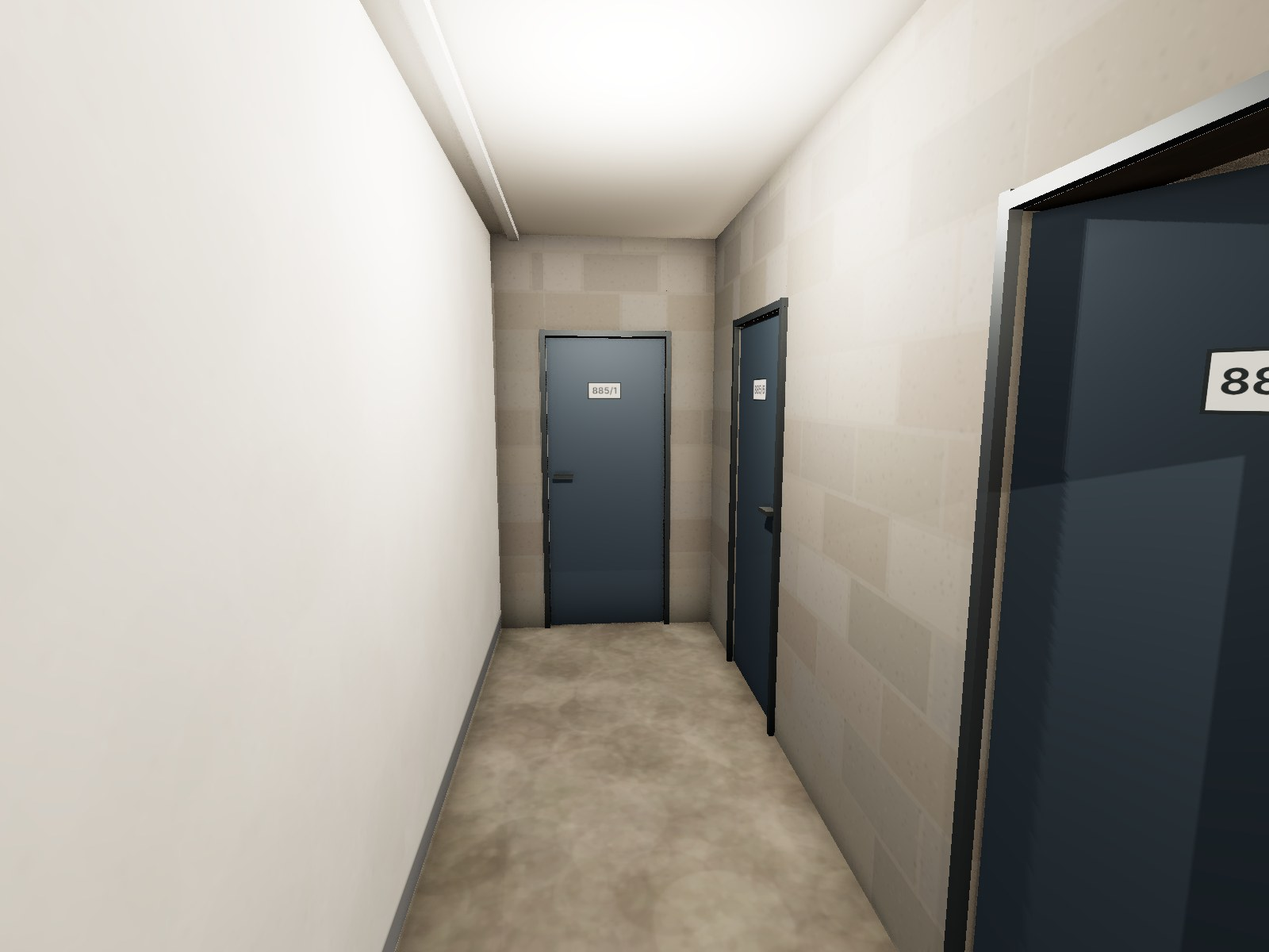
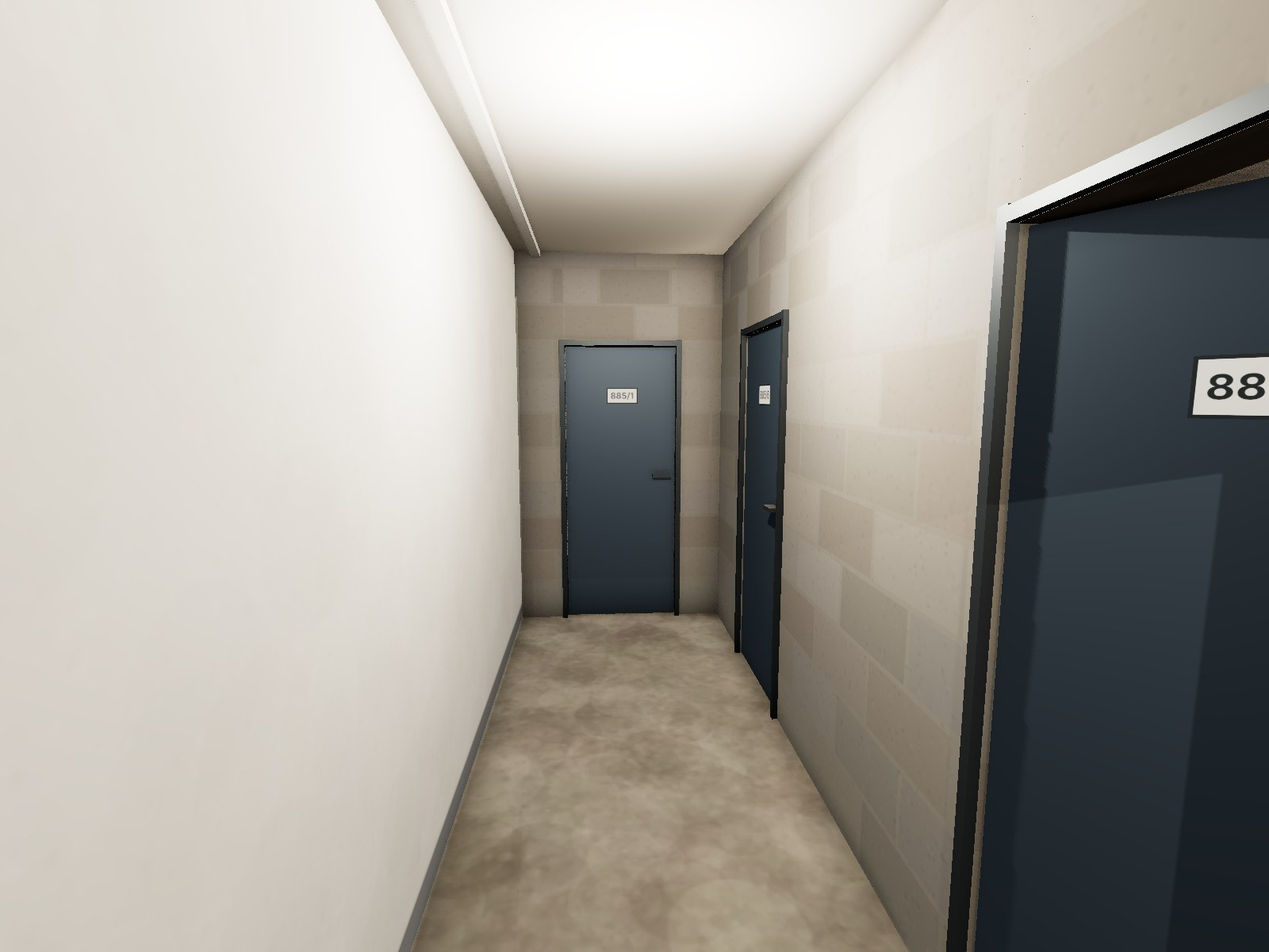
885/1 narrowed to 1,20 m with door hinge on the south side; 885/6 and 885/8 widened to 2,25 m (all A1 kóje ~4,15 m²)
Claude-Session: https://claude.ai/code/session_01PwTnPep7yYfhi5YvdxRW3v

diff --git a/sklepyjachymov.html b/sklepyjachymov.html
@@ -537,15 +537,15 @@
                     <!-- Návrh cílového stavu 2 podle přesného zaměření; rozměry kójí světlé, příčky 15 cm -->
                     <rect x="90" y="80" width="240" height="137.96" fill="#f5f5f5" stroke="none"></rect>
                     <rect x="342" y="80" width="140" height="152" fill="#f5f5f5" stroke="none"></rect>
-                    <rect x="90" y="80" width="60" height="137.96" class="proposed-unit" onclick="selectItem('proposal2', 'Kóje 885/1', 'Sklepní kóje – cílový stav', '1,50 x 3,45 m (5,17 m²)', 'Vnitřní rozměr, příčky 15 cm, dveře 0,80 m')"></rect>
-                    <text x="120" y="142.98" class="label-title" fill="#0d47a1" style="font-size:11px;">885/1</text>
-                    <text x="120" y="156.18" class="label-title" fill="#0d47a1" style="font-size:9px; font-weight:normal;">1,50 × 3,45</text>
-                    <rect x="156" y="80" width="84" height="74" class="proposed-unit" onclick="selectItem('proposal2', 'Kóje 885/6', 'Sklepní kóje – cílový stav', '2,10 x 1,85 m (3,89 m²)', 'Vnitřní rozměr, příčky 15 cm, dveře 0,80 m')"></rect>
-                    <text x="198" y="96.8" class="label-title" fill="#0d47a1" style="font-size:11px;">885/6</text>
-                    <text x="198" y="110" class="label-title" fill="#0d47a1" style="font-size:9px; font-weight:normal;">2,10 × 1,85</text>
-                    <rect x="246" y="80" width="84" height="74" class="proposed-unit" onclick="selectItem('proposal2', 'Kóje 885/8', 'Sklepní kóje – cílový stav', '2,10 x 1,85 m (3,89 m²)', 'Vnitřní rozměr, příčky 15 cm, dveře 0,80 m')"></rect>
-                    <text x="288" y="96.8" class="label-title" fill="#0d47a1" style="font-size:11px;">885/8</text>
-                    <text x="288" y="110" class="label-title" fill="#0d47a1" style="font-size:9px; font-weight:normal;">2,10 × 1,85</text>
+                    <rect x="90" y="80" width="48" height="137.96" class="proposed-unit" onclick="selectItem('proposal2', 'Kóje 885/1', 'Sklepní kóje – cílový stav', '1,20 x 3,45 m (4,14 m²)', 'Vnitřní rozměr, příčky 15 cm, dveře 0,80 m')"></rect>
+                    <text x="114" y="142.98" class="label-title" fill="#0d47a1" style="font-size:11px;">885/1</text>
+                    <text x="114" y="156.18" class="label-title" fill="#0d47a1" style="font-size:9px; font-weight:normal;">1,20 × 3,45</text>
+                    <rect x="144" y="80" width="90" height="74" class="proposed-unit" onclick="selectItem('proposal2', 'Kóje 885/6', 'Sklepní kóje – cílový stav', '2,25 x 1,85 m (4,16 m²)', 'Vnitřní rozměr, příčky 15 cm, dveře 0,80 m')"></rect>
+                    <text x="189" y="96.8" class="label-title" fill="#0d47a1" style="font-size:11px;">885/6</text>
+                    <text x="189" y="110" class="label-title" fill="#0d47a1" style="font-size:9px; font-weight:normal;">2,25 × 1,85</text>
+                    <rect x="240" y="80" width="90" height="74" class="proposed-unit" onclick="selectItem('proposal2', 'Kóje 885/8', 'Sklepní kóje – cílový stav', '2,25 x 1,85 m (4,16 m²)', 'Vnitřní rozměr, příčky 15 cm, dveře 0,80 m')"></rect>
+                    <text x="285" y="96.8" class="label-title" fill="#0d47a1" style="font-size:11px;">885/8</text>
+                    <text x="285" y="110" class="label-title" fill="#0d47a1" style="font-size:9px; font-weight:normal;">2,25 × 1,85</text>
                     <rect x="342" y="80" width="88" height="74" class="proposed-unit" onclick="selectItem('proposal2', 'Kóje 885/9', 'Sklepní kóje – cílový stav', '2,20 x 1,85 m (4,07 m²)', 'Vnitřní rozměr, příčky 15 cm, dveře 0,80 m')"></rect>
                     <text x="386" y="96.8" class="label-title" fill="#0d47a1" style="font-size:11px;">885/9</text>
                     <text x="386" y="110" class="label-title" fill="#0d47a1" style="font-size:9px; font-weight:normal;">2,20 × 1,85</text>
@@ -573,14 +573,14 @@
                     <rect x="773.8" y="80" width="60" height="78" class="proposed-unit" onclick="selectItem('proposal2', 'A6', 'Společný prostor', '1,50 x 1,95 m (2,92 m²)', 'Vnitřní rozměr, příčky 15 cm, dveře 0,80 m')"></rect>
                     <text x="803.8" y="96.8" class="label-title" fill="#0d47a1" style="font-size:11px;">A6</text>
                     <text x="803.8" y="110" class="label-title" fill="#0d47a1" style="font-size:9px; font-weight:normal;">1,50 × 1,95</text>
-                    <rect x="156" y="160" width="174" height="57.96" fill="#f5f5f5" stroke="#9e9e9e" stroke-width="1" style="cursor: pointer;" onclick="selectItem('proposal2', 'Přístup A1', 'Přístupová plocha', '4,35 x 1,45 m (6,30 m²)', 'Přístup ke kójím 885/1, 885/6 a 885/8 průchodem z A2')"></rect>
+                    <rect x="144" y="160" width="186" height="57.96" fill="#f5f5f5" stroke="#9e9e9e" stroke-width="1" style="cursor: pointer;" onclick="selectItem('proposal2', 'Přístup A1', 'Přístupová plocha', '4,65 x 1,45 m (6,74 m²)', 'Přístup ke kójím 885/1, 885/6 a 885/8 průchodem z A2')"></rect>
                     <rect x="342" y="160" width="88" height="72" fill="#f5f5f5" stroke="#9e9e9e" stroke-width="1" style="cursor: pointer;" onclick="selectItem('proposal2', 'Přístup A2', 'Přístupová plocha', '2,20 x 1,80 m (3,96 m²)', 'Otevřeno do chodby C1 v celé šířce 885/9 (2,20 m); přístup k 885/9 a 885/2, průchodem doleva do A1')"></rect>
                     <rect x="430" y="325.2" width="71.8" height="216.96" fill="#f5f5f5" stroke="#9e9e9e" stroke-width="1" style="cursor: pointer;" onclick="selectItem('proposal2', 'Přístup B2', 'Volná část B2', '1,79 x 5,42 m (9,74 m²)', 'Přístup ke kójím 885/5, 885/X a 885/4')"></rect>
                     <rect x="773.8" y="164" width="60" height="68" fill="#f5f5f5" stroke="#9e9e9e" stroke-width="1" style="cursor: pointer;" onclick="selectItem('proposal2', 'Boční chodba', 'Boční chodba', '1,50 x 1,70 m (2,55 m²)', 'Přístup ke kójím A6 a 885/7')"></rect>
                     <!-- Nové příčky 15 cm -->
-                    <rect x="150" y="80" width="6" height="137.96" fill="#546e7a" pointer-events="none"></rect>
-                    <rect x="240" y="80" width="6" height="74" fill="#546e7a" pointer-events="none"></rect>
-                    <rect x="156" y="154" width="174" height="6" fill="#546e7a" pointer-events="none"></rect>
+                    <rect x="138" y="80" width="6" height="137.96" fill="#546e7a" pointer-events="none"></rect>
+                    <rect x="234" y="80" width="6" height="74" fill="#546e7a" pointer-events="none"></rect>
+                    <rect x="144" y="154" width="186" height="6" fill="#546e7a" pointer-events="none"></rect>
                     <rect x="342" y="154" width="88" height="6" fill="#546e7a" pointer-events="none"></rect>
                     <rect x="430" y="80" width="6" height="152" fill="#546e7a" pointer-events="none"></rect>
                     <rect x="436" y="226" width="46" height="6" fill="#546e7a" pointer-events="none"></rect>
@@ -589,20 +589,20 @@
                     <rect x="424" y="325.2" width="6" height="216.96" fill="#546e7a" pointer-events="none"></rect>
                     <rect x="773.8" y="158" width="60" height="6" fill="#546e7a" pointer-events="none"></rect>
                     <!-- Dveře 0,80 m, otevírání dovnitř -->
-                    <g class="door-proposal" onclick="selectItem('proposal2', 'Dveře 885/1', 'Vstupní dveře 885/1', 'Šířka 0,80 m, otevírání dovnitř', 'v příčce do přístupové plochy A1')">
-                        <rect x="150" y="172.8" width="6" height="32" class="door-gap"></rect>
-                        <path d="M 150 172.8 L 118 172.8 A 32 32 0 0 0 150 204.8 Z" class="door-swing"></path>
-                        <line x1="150" y1="172.8" x2="118" y2="172.8" class="door-leaf"></line>
+                    <g class="door-proposal" onclick="selectItem('proposal2', 'Dveře 885/1', 'Vstupní dveře 885/1', 'Šířka 0,80 m, otevírání dovnitř', 'v příčce do přístupové plochy A1, závěs na jižní straně')">
+                        <rect x="138" y="172.8" width="6" height="32" class="door-gap"></rect>
+                        <path d="M 138 204.8 L 106 204.8 A 32 32 0 0 1 138 172.8 Z" class="door-swing"></path>
+                        <line x1="138" y1="204.8" x2="106" y2="204.8" class="door-leaf"></line>
                     </g>
                     <g class="door-proposal" onclick="selectItem('proposal2', 'Dveře 885/6', 'Vstupní dveře 885/6', 'Šířka 0,80 m, otevírání dovnitř', 'v čelní příčce, z přístupové plochy A1')">
-                        <rect x="182" y="154" width="32" height="6" class="door-gap"></rect>
-                        <path d="M 182 154 L 182 122 A 32 32 0 0 1 214 154 Z" class="door-swing"></path>
-                        <line x1="182" y1="154" x2="182" y2="122" class="door-leaf"></line>
+                        <rect x="173" y="154" width="32" height="6" class="door-gap"></rect>
+                        <path d="M 173 154 L 173 122 A 32 32 0 0 1 205 154 Z" class="door-swing"></path>
+                        <line x1="173" y1="154" x2="173" y2="122" class="door-leaf"></line>
                     </g>
                     <g class="door-proposal" onclick="selectItem('proposal2', 'Dveře 885/8', 'Vstupní dveře 885/8', 'Šířka 0,80 m, otevírání dovnitř', 'v čelní příčce, z přístupové plochy A1')">
-                        <rect x="272" y="154" width="32" height="6" class="door-gap"></rect>
-                        <path d="M 272 154 L 272 122 A 32 32 0 0 1 304 154 Z" class="door-swing"></path>
-                        <line x1="272" y1="154" x2="272" y2="122" class="door-leaf"></line>
+                        <rect x="269" y="154" width="32" height="6" class="door-gap"></rect>
+                        <path d="M 269 154 L 269 122 A 32 32 0 0 1 301 154 Z" class="door-swing"></path>
+                        <line x1="269" y1="154" x2="269" y2="122" class="door-leaf"></line>
                     </g>
                     <g class="door-proposal" onclick="selectItem('proposal2', 'Dveře 885/9', 'Vstupní dveře 885/9', 'Šířka 0,80 m, otevírání dovnitř', 'v čelní příčce, z přístupové plochy A2')">
                         <rect x="370" y="154" width="32" height="6" class="door-gap"></rect>
@@ -841,13 +841,13 @@
                         <line x1="506.8" y1="220.8" x2="550.2" y2="220.8" class="v2-tread"></line>
                         <rect x="90" y="232" width="669.4" height="62" class="v2-corridor" onclick="selectItem('vis2', 'C1', 'Společná chodba', '16,71 x 1,55 m', 'Páteřní chodba sklepů')"></rect>
                         <rect x="759.4" y="232" width="74.4" height="62" class="v2-corridor" onclick="selectItem('vis2', 'Uzel chodby', 'Společná chodba', '1,86 x 1,55 m', 'Propojení s boční chodbou')"></rect>
-                        <rect x="156" y="160" width="174" height="57.96" class="v2-corridor" onclick="selectItem('vis2', 'Přístup A1', 'Přístupová plocha', '4,35 x 1,45 m (6,30 m²)', 'Přístup ke kójím 885/1, 885/6 a 885/8 průchodem z A2')"></rect>
+                        <rect x="144" y="160" width="186" height="57.96" class="v2-corridor" onclick="selectItem('vis2', 'Přístup A1', 'Přístupová plocha', '4,65 x 1,45 m (6,74 m²)', 'Přístup ke kójím 885/1, 885/6 a 885/8 průchodem z A2')"></rect>
                         <rect x="342" y="160" width="88" height="72" class="v2-corridor" onclick="selectItem('vis2', 'Přístup A2', 'Přístupová plocha', '2,20 x 1,80 m (3,96 m²)', 'Otevřeno do chodby C1 v celé šířce 885/9 (2,20 m); přístup k 885/9 a 885/2, průchodem doleva do A1')"></rect>
                         <rect x="430" y="325.2" width="71.8" height="216.96" class="v2-corridor" onclick="selectItem('vis2', 'Přístup B2', 'Volná část B2', '1,79 x 5,42 m (9,74 m²)', 'Přístup ke kójím 885/5, 885/X a 885/4')"></rect>
                         <rect x="773.8" y="164" width="60" height="68" class="v2-corridor" onclick="selectItem('vis2', 'Boční chodba', 'Boční chodba', '1,50 x 1,70 m (2,55 m²)', 'Přístup ke kójím A6 a 885/7')"></rect>
-                        <rect x="90" y="80" width="60" height="137.96" class="v2-unit" onclick="selectItem('vis2', 'Kóje 885/1', 'Sklepní kóje – cílový stav', '1,50 x 3,45 m (5,17 m²)', 'Vnitřní rozměr, příčky 15 cm, dveře 0,80 m')"></rect>
-                        <rect x="156" y="80" width="84" height="74" class="v2-unit" onclick="selectItem('vis2', 'Kóje 885/6', 'Sklepní kóje – cílový stav', '2,10 x 1,85 m (3,89 m²)', 'Vnitřní rozměr, příčky 15 cm, dveře 0,80 m')"></rect>
-                        <rect x="246" y="80" width="84" height="74" class="v2-unit" onclick="selectItem('vis2', 'Kóje 885/8', 'Sklepní kóje – cílový stav', '2,10 x 1,85 m (3,89 m²)', 'Vnitřní rozměr, příčky 15 cm, dveře 0,80 m')"></rect>
+                        <rect x="90" y="80" width="48" height="137.96" class="v2-unit" onclick="selectItem('vis2', 'Kóje 885/1', 'Sklepní kóje – cílový stav', '1,20 x 3,45 m (4,14 m²)', 'Vnitřní rozměr, příčky 15 cm, dveře 0,80 m')"></rect>
+                        <rect x="144" y="80" width="90" height="74" class="v2-unit" onclick="selectItem('vis2', 'Kóje 885/6', 'Sklepní kóje – cílový stav', '2,25 x 1,85 m (4,16 m²)', 'Vnitřní rozměr, příčky 15 cm, dveře 0,80 m')"></rect>
+                        <rect x="240" y="80" width="90" height="74" class="v2-unit" onclick="selectItem('vis2', 'Kóje 885/8', 'Sklepní kóje – cílový stav', '2,25 x 1,85 m (4,16 m²)', 'Vnitřní rozměr, příčky 15 cm, dveře 0,80 m')"></rect>
                         <rect x="342" y="80" width="88" height="74" class="v2-unit" onclick="selectItem('vis2', 'Kóje 885/9', 'Sklepní kóje – cílový stav', '2,20 x 1,85 m (4,07 m²)', 'Vnitřní rozměr, příčky 15 cm, dveře 0,80 m')"></rect>
                         <rect x="436" y="80" width="46" height="146" class="v2-unit" onclick="selectItem('vis2', 'Kóje 885/2', 'Sklepní kóje – cílový stav', '1,15 x 3,65 m (4,20 m²)', 'Vnitřní rozměr, příčky 15 cm, dveře 0,80 m')"></rect>
                         <rect x="655.4" y="80" width="104" height="152" class="v2-unit" onclick="selectItem('vis2', 'Kóje 885/10', 'Sklepní kóje – cílový stav', '2,60 x 3,80 m (9,88 m²)', 'Vnitřní rozměr, příčky 15 cm, dveře 0,80 m')"></rect>
@@ -870,9 +870,9 @@
                         <rect x="437.8" y="490.16" width="32" height="32" class="v2-hatch" onclick="selectItem('vis2', 'Poklop', 'Poklop k přívodu vody', '0,80 x 0,80 m', '0,50 m od venkovní zdi a 0,80 m od zdi k výsepu')"></rect>
                         <rect x="497" y="494.16" width="4.8" height="8" class="v2-hatch" onclick="selectItem('vis2', 'Kryt vody', 'Kryt přívodu vody', '0,20 x 0,12 m', 'Na stěně k výsepu, 1,00 m od rohu u venkovní zdi')"></rect>
                         <g filter="url(#v2-shadow)" pointer-events="none">
-                            <rect x="150" y="80" width="6" height="137.96" class="v2-partition"></rect>
-                            <rect x="240" y="80" width="6" height="74" class="v2-partition"></rect>
-                            <rect x="156" y="154" width="174" height="6" class="v2-partition"></rect>
+                            <rect x="138" y="80" width="6" height="137.96" class="v2-partition"></rect>
+                            <rect x="234" y="80" width="6" height="74" class="v2-partition"></rect>
+                            <rect x="144" y="154" width="186" height="6" class="v2-partition"></rect>
                             <rect x="342" y="154" width="88" height="6" class="v2-partition"></rect>
                             <rect x="430" y="80" width="6" height="152" class="v2-partition"></rect>
                             <rect x="436" y="226" width="46" height="6" class="v2-partition"></rect>
@@ -881,20 +881,20 @@
                             <rect x="424" y="325.2" width="6" height="216.96" class="v2-partition"></rect>
                             <rect x="773.8" y="158" width="60" height="6" class="v2-partition"></rect>
                         </g>
-                        <g class="v2-door" onclick="selectItem('vis2', 'Dveře 885/1', 'Vstupní dveře 885/1', '0,80 m, otevírání dovnitř', 'v příčce do přístupové plochy A1')">
-                            <rect x="150" y="172.8" width="6" height="32" class="v2-door-gap"></rect>
-                            <path d="M 150 172.8 L 118 172.8 A 32 32 0 0 0 150 204.8 Z" class="v2-door-swing"></path>
-                            <line x1="150" y1="172.8" x2="118" y2="172.8" class="v2-door-leaf"></line>
+                        <g class="v2-door" onclick="selectItem('vis2', 'Dveře 885/1', 'Vstupní dveře 885/1', '0,80 m, otevírání dovnitř', 'v příčce do přístupové plochy A1, závěs na jižní straně')">
+                            <rect x="138" y="172.8" width="6" height="32" class="v2-door-gap"></rect>
+                            <path d="M 138 204.8 L 106 204.8 A 32 32 0 0 1 138 172.8 Z" class="v2-door-swing"></path>
+                            <line x1="138" y1="204.8" x2="106" y2="204.8" class="v2-door-leaf"></line>
                         </g>
                         <g class="v2-door" onclick="selectItem('vis2', 'Dveře 885/6', 'Vstupní dveře 885/6', '0,80 m, otevírání dovnitř', 'v čelní příčce, z přístupové plochy A1')">
-                            <rect x="182" y="154" width="32" height="6" class="v2-door-gap"></rect>
-                            <path d="M 182 154 L 182 122 A 32 32 0 0 1 214 154 Z" class="v2-door-swing"></path>
-                            <line x1="182" y1="154" x2="182" y2="122" class="v2-door-leaf"></line>
+                            <rect x="173" y="154" width="32" height="6" class="v2-door-gap"></rect>
+                            <path d="M 173 154 L 173 122 A 32 32 0 0 1 205 154 Z" class="v2-door-swing"></path>
+                            <line x1="173" y1="154" x2="173" y2="122" class="v2-door-leaf"></line>
                         </g>
                         <g class="v2-door" onclick="selectItem('vis2', 'Dveře 885/8', 'Vstupní dveře 885/8', '0,80 m, otevírání dovnitř', 'v čelní příčce, z přístupové plochy A1')">
-                            <rect x="272" y="154" width="32" height="6" class="v2-door-gap"></rect>
-                            <path d="M 272 154 L 272 122 A 32 32 0 0 1 304 154 Z" class="v2-door-swing"></path>
-                            <line x1="272" y1="154" x2="272" y2="122" class="v2-door-leaf"></line>
+                            <rect x="269" y="154" width="32" height="6" class="v2-door-gap"></rect>
+                            <path d="M 269 154 L 269 122 A 32 32 0 0 1 301 154 Z" class="v2-door-swing"></path>
+                            <line x1="269" y1="154" x2="269" y2="122" class="v2-door-leaf"></line>
                         </g>
                         <g class="v2-door" onclick="selectItem('vis2', 'Dveře 885/9', 'Vstupní dveře 885/9', '0,80 m, otevírání dovnitř', 'v čelní příčce, z přístupové plochy A2')">
                             <rect x="370" y="154" width="32" height="6" class="v2-door-gap"></rect>
@@ -941,15 +941,15 @@
                             <path d="M 848.2 166 L 882.2 166 A 34 34 0 0 1 848.2 200 Z" class="v2-door-swing"></path>
                             <line x1="848.2" y1="166" x2="882.2" y2="166" class="v2-door-leaf"></line>
                         </g>
-                        <text x="120" y="132" class="v2-num v2-num-s">885/1</text>
-                        <text x="120" y="144.8" class="v2-dim">1,50 × 3,45</text>
-                        <text x="120" y="156" class="v2-area">5,17 m²</text>
-                        <text x="198" y="96.8" class="v2-num">885/6</text>
-                        <text x="198" y="109.6" class="v2-dim">2,10 × 1,85</text>
-                        <text x="198" y="120.8" class="v2-area">3,89 m²</text>
-                        <text x="288" y="96.8" class="v2-num">885/8</text>
-                        <text x="288" y="109.6" class="v2-dim">2,10 × 1,85</text>
-                        <text x="288" y="120.8" class="v2-area">3,89 m²</text>
+                        <text x="114" y="132" class="v2-num v2-num-s">885/1</text>
+                        <text x="114" y="144.8" class="v2-dim">1,20 × 3,45</text>
+                        <text x="114" y="156" class="v2-area">4,14 m²</text>
+                        <text x="189" y="96.8" class="v2-num">885/6</text>
+                        <text x="189" y="109.6" class="v2-dim">2,25 × 1,85</text>
+                        <text x="189" y="120.8" class="v2-area">4,16 m²</text>
+                        <text x="285" y="96.8" class="v2-num">885/8</text>
+                        <text x="285" y="109.6" class="v2-dim">2,25 × 1,85</text>
+                        <text x="285" y="120.8" class="v2-area">4,16 m²</text>
                         <text x="386" y="96.8" class="v2-num">885/9</text>
                         <text x="386" y="109.6" class="v2-dim">2,20 × 1,85</text>
                         <text x="386" y="120.8" class="v2-area">4,07 m²</text>
@@ -979,7 +979,7 @@
                         <text x="803.8" y="120.8" class="v2-area"  fill="#2e7d32">2,92 m²</text>
                         <text x="570" y="268" class="v2-corr-label">SPOLEČNÁ CHODBA C1</text>
                         <text x="528.4" y="148" class="v2-out-label" fill="#e65100" transform="rotate(-90 528.4 148)">SCHODY</text>
-                        <text x="243" y="194" class="v2-corr-sub">přístup</text>
+                        <text x="237" y="194" class="v2-corr-sub">přístup</text>
                         <text x="394" y="214" class="v2-corr-sub">přístup</text>
                         <text x="474" y="432" class="v2-corr-sub" transform="rotate(-90 474 432)">PŘÍSTUP B2 · 1,795 m</text>
                         <text x="803.8" y="198" class="v2-corr-sub">chodba</text>
@@ -1012,7 +1012,7 @@
                             <rect x="170" y="628" width="40" height="5" fill="#37474f" stroke="#37474f" stroke-width="1"></rect>
                             <rect x="210" y="628" width="40" height="5" fill="#ffffff" stroke="#37474f" stroke-width="1"></rect>
                             <text x="90" y="644" class="v2-legend">0</text><text x="250" y="644" class="v2-legend">4 m</text>
-                            <text x="1100" y="640" class="v2-legend" text-anchor="end" font-style="italic" style="text-anchor: end;">Cílový stav dle Návrhu 2 · přesné zaměření · 10 soukromých kójí · nové příčky 30,5 m · rozměry vnitřní</text>
+                            <text x="1100" y="640" class="v2-legend" text-anchor="end" font-style="italic" style="text-anchor: end;">Cílový stav dle Návrhu 2 · přesné zaměření · 10 soukromých kójí · nové příčky 30,8 m · rozměry vnitřní</text>
                         </g>
                     </g>
 
@@ -1030,9 +1030,9 @@
                             <polyline points="96,212 96,202" class="e2-feed"></polyline>
                             <rect x="91.5" y="197.5" width="9" height="9" class="elec-socket"></rect>
                         </g>
-                        <g class="e2-circuit" onclick="selectItem('elec2', 'Okruh K2 – 885/6', 'Zásuvka kóje 885/6', 'CYKY-J 3x2,5 · jistič B16 · elektroměr E2 · cca 17,2 m', 'Z RS v A3 po trase pod stropem do zásuvky 230 V IP44; podružný elektroměr E2 pro odečet a rozúčtování. Svítidlo je na samostatném okruhu osvětlení O2.')">
-                            <polyline points="232,212 232,144" class="e2-feed"></polyline>
-                            <rect x="227.5" y="139.5" width="9" height="9" class="elec-socket"></rect>
+                        <g class="e2-circuit" onclick="selectItem('elec2', 'Okruh K2 – 885/6', 'Zásuvka kóje 885/6', 'CYKY-J 3x2,5 · jistič B16 · elektroměr E2 · cca 17,3 m', 'Z RS v A3 po trase pod stropem do zásuvky 230 V IP44; podružný elektroměr E2 pro odečet a rozúčtování. Svítidlo je na samostatném okruhu osvětlení O2.')">
+                            <polyline points="228,212 228,144" class="e2-feed"></polyline>
+                            <rect x="223.5" y="139.5" width="9" height="9" class="elec-socket"></rect>
                         </g>
                         <g class="e2-circuit" onclick="selectItem('elec2', 'Okruh K3 – 885/8', 'Zásuvka kóje 885/8', 'CYKY-J 3x2,5 · jistič B16 · elektroměr E3 · cca 14,9 m', 'Z RS v A3 po trase pod stropem do zásuvky 230 V IP44; podružný elektroměr E3 pro odečet a rozúčtování. Svítidlo je na samostatném okruhu osvětlení O2.')">
                             <polyline points="322,212 322,144" class="e2-feed"></polyline>
@@ -1071,11 +1071,11 @@
                         <g class="e2-circuit" onclick="selectItem('elec2', 'Okruh K12 – 885/12', 'Zásuvka nebytové jednotky 885/12', 'CYKY-J 3x2,5 · jistič B16 · elektroměr E12 · cca 14,2 m', 'Z RS v A3 po trase pod stropem do zásuvky 230 V IP44; podružný elektroměr E12 pro odečet a rozúčtování. Svítidlo je na samostatném okruhu osvětlení O2.')">
                             <rect x="857.5" y="261.5" width="9" height="9" class="elec-socket"></rect>
                         </g>
-                        <g class="e2-circuit" onclick="selectItem('elec2', 'Okruh O2', 'Svítidla v kójích a nebytových jednotkách', 'CYKY-J 3x1,5 · jistič B10 · cca 84,0 m', 'Ze samostatného přívodu osvětlení; svítidlo LED IP44 v každé kóji a v 885/11 a 885/12, vypínač u dveří')">
-                            <polyline points="96,212 96,202 96,96 112,96" class="e2-light-line"></polyline>
-                            <circle cx="120" cy="96" r="7" class="elec-light"></circle>
-                            <polyline points="232,212 232,144 232,130 228,130" class="e2-light-line"></polyline>
-                            <circle cx="222" cy="130" r="7" class="elec-light"></circle>
+                        <g class="e2-circuit" onclick="selectItem('elec2', 'Okruh O2', 'Svítidla v kójích a nebytových jednotkách', 'CYKY-J 3x1,5 · jistič B10 · cca 83,9 m', 'Ze samostatného přívodu osvětlení; svítidlo LED IP44 v každé kóji a v 885/11 a 885/12, vypínač u dveří')">
+                            <polyline points="96,212 96,202 96,96 106.8,96" class="e2-light-line"></polyline>
+                            <circle cx="114" cy="96" r="7" class="elec-light"></circle>
+                            <polyline points="228,212 228,144 228,130 224.8,130" class="e2-light-line"></polyline>
+                            <circle cx="218.8" cy="130" r="7" class="elec-light"></circle>
                             <polyline points="322,212 322,144 322,130 318,130" class="e2-light-line"></polyline>
                             <circle cx="312" cy="130" r="7" class="elec-light"></circle>
                             <polyline points="394,212 424,212 424,144 424,130 420,130" class="e2-light-line"></polyline>
@@ -1187,7 +1187,7 @@
                             <line x1="314" y1="17" x2="334" y2="17" class="e2-tray"></line><text x="339" y="21" class="e2-legend">trasa</text>
                             <line x1="374" y1="17" x2="394" y2="17" class="e2-feed"></line><text x="399" y="21" class="e2-legend">zásuvky</text>
                             <line x1="446" y1="17" x2="466" y2="17" class="e2-light-line"></line><text x="471" y="21" class="e2-legend">světla</text>
-                            <text x="98" y="34" class="e2-legend" style="font-size:9px; fill:#607d8b;">3×2,5 zásuvky K1–K12 + Z1 ≈ 199,8 m (B16) · 3×1,5 světla O1 + O2 ≈ 118,9 m (B10, samost. přívod)</text>
+                            <text x="98" y="34" class="e2-legend" style="font-size:9px; fill:#607d8b;">3×2,5 zásuvky K1–K12 + Z1 ≈ 199,9 m (B16) · 3×1,5 světla O1 + O2 ≈ 118,7 m (B10, samost. přívod)</text>
                         </g>
                     </g>
 
@@ -1408,12 +1408,12 @@
             } else if (mode === 'visualization2') {
                 // Samostatný čistý půdorys cílového stavu dle Návrhu 2
                 layerVis2.style.display = 'block';
-                selectItem('vis2', 'Cílový stav 2', 'Vizualizace dle Návrhu cílového stavu 2 (přesné zaměření)', '10 soukromých kójí, 2 společné', 'Nové příčky 15 cm (30,5 m), dveře 0,80 m, rozměry vnitřní');
+                selectItem('vis2', 'Cílový stav 2', 'Vizualizace dle Návrhu cílového stavu 2 (přesné zaměření)', '10 soukromých kójí, 2 společné', 'Nové příčky 15 cm (30,8 m), dveře 0,80 m, rozměry vnitřní');
             } else if (mode === 'electric2') {
                 // Elektroinstalace 2 nad vizualizací cílového stavu 2
                 layerVis2.style.display = 'block';
                 layerElec2.style.display = 'block';
-                selectItem('elec2', 'Elektroinstalace 2', 'Rozvod z podružného rozvaděče RS v A3', 'Zásuvky: 12 okruhů s elektroměry E1–E12 + Z1 s E13 · Světla: samostatný přívod, O1 + O2', 'Zásuvky CYKY-J 3x2,5 cca 199,8 m (B16), světla CYKY-J 3x1,5 cca 118,9 m (B10)');
+                selectItem('elec2', 'Elektroinstalace 2', 'Rozvod z podružného rozvaděče RS v A3', 'Zásuvky: 12 okruhů s elektroměry E1–E12 + Z1 s E13 · Světla: samostatný přívod, O1 + O2', 'Zásuvky CYKY-J 3x2,5 cca 199,9 m (B16), světla CYKY-J 3x1,5 cca 118,7 m (B10)');
             } else if (mode === 'electric') {
                 layerWork.style.display = 'block';
                 layerOff.style.display = 'block';

diff --git a/vizualizace3d-a1a2.html b/vizualizace3d-a1a2.html
@@ -31,7 +31,7 @@
     <div id="view"></div>
     <div class="panel">
         <h1>Místnosti A1 a A2 – cílový stav</h1>
-        <p><b>A1:</b> 885/1 (1,50 × 3,45 m), 885/6 a 885/8 (2,10 × 1,85 m). <b>A2:</b> 885/9 (2,20 × 1,85 m), 885/2 (1,15 × 3,65 m).</p>
+        <p><b>A1:</b> 885/1 (1,20 × 3,45 m), 885/6 a 885/8 (2,25 × 1,85 m) – všechny kolem 4,15 m². <b>A2:</b> 885/9 (2,20 × 1,85 m), 885/2 (1,15 × 3,65 m).</p>
         <p>Dřevěná příčka před A2 vybourána, přístup z chodby C1 otevřený v celé šířce 885/9 (2,20 m); do A1 průchodem 1,00 m bez dveří. Příčky z tvárnic 15 cm až ke stropu, dveře 0,80 m.</p>
         <p class="note">Vizualizace podle Návrhu cílového stavu 2 a přesného zaměření: A1 6,00 × 3,449 m, A2 3,50 × 3,80 m, chodba C1 1,55 m, světlá výška 2,60 m, okna 1,13 × 0,50 m s parapetem ve 2,00 m. Myší lze pohled otáčet a přibližovat.</p>
         <div class="buttons">
@@ -232,9 +232,9 @@
         });
 
         // ---------- Nové příčky z tvárnic 15 cm ----------
-        wall(1.5, 0, 1.65, D1, 'block', [{ a: 2.32, b: 3.12, h: DOOR_H }]);                          // 885/1 | přístup A1
-        wall(1.65, 1.85, A1W, 2.0, 'block', [{ a: 2.3, b: 3.1, h: DOOR_H }, { a: 4.55, b: 5.35, h: DOOR_H }]); // čelo 885/6 + 885/8
-        wall(3.75, 0, 3.9, 1.85, 'block');                                                            // 885/6 | 885/8
+        wall(1.20, 0, 1.35, D1, 'block', [{ a: 2.32, b: 3.12, h: DOOR_H }]);                         // 885/1 | přístup A1
+        wall(1.35, 1.85, A1W, 2.0, 'block', [{ a: 2.075, b: 2.875, h: DOOR_H }, { a: 4.475, b: 5.275, h: DOOR_H }]); // čelo 885/6 + 885/8
+        wall(3.60, 0, 3.75, 1.85, 'block');                                                           // 885/6 | 885/8
         wall(OX, 1.85, OX + 2.20, 2.0, 'block', [{ a: OX + 0.70, b: OX + 1.50, h: DOOR_H }]);        // čelo 885/9
         wall(OX + 2.20, 0, OX + 2.35, C1Z, 'block', [{ a: 2.50, b: 3.30, h: DOOR_H }]);              // 885/9 + přístup | 885/2
         wall(OX + 2.35, 3.65, OX + A2W, C1Z, 'block');                                                // 885/2 do chodby C1
@@ -245,14 +245,16 @@
         const handleMat = std({ color: '#cfd8dc', metalness: 0.9, roughness: 0.25 });
         // axis: 'x' = dveře ve stěně vedené podél x, 'z' = podél z; face = souřadnice líce na straně přístupu;
         // into = -1/+1 směr do kóje; a = začátek otvoru; open = úhel otevření (rad)
-        function door(name, axis, face, into, a, open = 0) {
+        // flip = závěs na konci otvoru (a + DOOR_W) místo na začátku
+        function door(name, axis, face, into, a, open = 0, flip = false) {
             const hinge = new THREE.Group();
+            const h = flip ? a + DOOR_W - 0.01 : a + 0.01;
             if (axis === 'x') {
-                hinge.position.set(a + 0.01, 0, face + into * 0.03);
-                hinge.rotation.y = -into * open;
+                hinge.position.set(h, 0, face + into * 0.03);
+                hinge.rotation.y = flip ? Math.PI + into * open : -into * open;
             } else {
-                hinge.position.set(face + into * 0.03, 0, a + 0.01);
-                hinge.rotation.y = -Math.PI / 2 + into * open;
+                hinge.position.set(face + into * 0.03, 0, h);
+                hinge.rotation.y = flip ? Math.PI / 2 - into * open : -Math.PI / 2 + into * open;
             }
             scene.add(hinge);
             add(box(DOOR_W - 0.02, DOOR_H - 0.02, 0.04), leafMat, (DOOR_W - 0.02) / 2, DOOR_H / 2, 0, { parent: hinge });
@@ -273,9 +275,9 @@
                 add(box(0.03, 0.035, DOOR_W + 0.06), frameMat, out, DOOR_H + 0.018, a + DOOR_W / 2);
             }
         }
-        door('885/1', 'z', 1.65, -1, 2.32);
-        door('885/6', 'x', 2.0, -1, 2.3);
-        door('885/8', 'x', 2.0, -1, 4.55, 0.55);
+        door('885/1', 'z', 1.35, -1, 2.32, 0, true);
+        door('885/6', 'x', 2.0, -1, 2.075);
+        door('885/8', 'x', 2.0, -1, 4.475, 0.55);
         door('885/9', 'x', 2.0, -1, OX + 0.70);
         door('885/2', 'z', OX + 2.20, 1, 2.50);
 
@@ -287,7 +289,7 @@
         const shelfMat = std({ color: '#9aa5ab', metalness: 0.6, roughness: 0.45 });
         const boxCols = ['#b48a5a', '#a07a4c', '#c49a68', '#5d7f99', '#7a8b5c'];
         // kóje: [x0, z0, x1, z1, strana regálu ('n' = u severní stěny, 'w' = u západní)]
-        const KOJE = { '885/1': [0, 0, 1.5, D1, 'w'], '885/6': [1.65, 0, 3.75, 1.85, 'n'], '885/8': [3.9, 0, A1W, 1.85, 'n'],
+        const KOJE = { '885/1': [0, 0, 1.20, D1, 'w'], '885/6': [1.35, 0, 3.60, 1.85, 'n'], '885/8': [3.75, 0, A1W, 1.85, 'n'],
             '885/9': [OX, 0, OX + 2.20, 1.85, 'n'], '885/2': [OX + 2.35, 0, OX + A2W, 3.65, 'w'] };
         Object.entries(KOJE).forEach(([name, [x0, z0, x1, z1, side]], i) => {
             const r = rng(90 + i);
@@ -339,7 +341,7 @@
         controls.enableDamping = true;
         const VIEWS = {
             entry: { pos: [OX + 1.45, 1.6, 3.45], target: [OX - 1.5, 1.0, 2.5], fov: 80 },
-            a1: { pos: [A1W - 0.2, 1.6, 2.9], target: [1.3, 1.0, 2.5], fov: 75 },
+            a1: { pos: [A1W - 0.2, 1.6, 2.9], target: [1.0, 1.0, 2.6], fov: 75 },
             cutaway: { pos: [XEND / 2 + 3.0, 12.5, C1Z + 6.5], target: [XEND / 2 - 0.6, 0, 1.7], fov: 44 }
         };
         function setView(name) {
